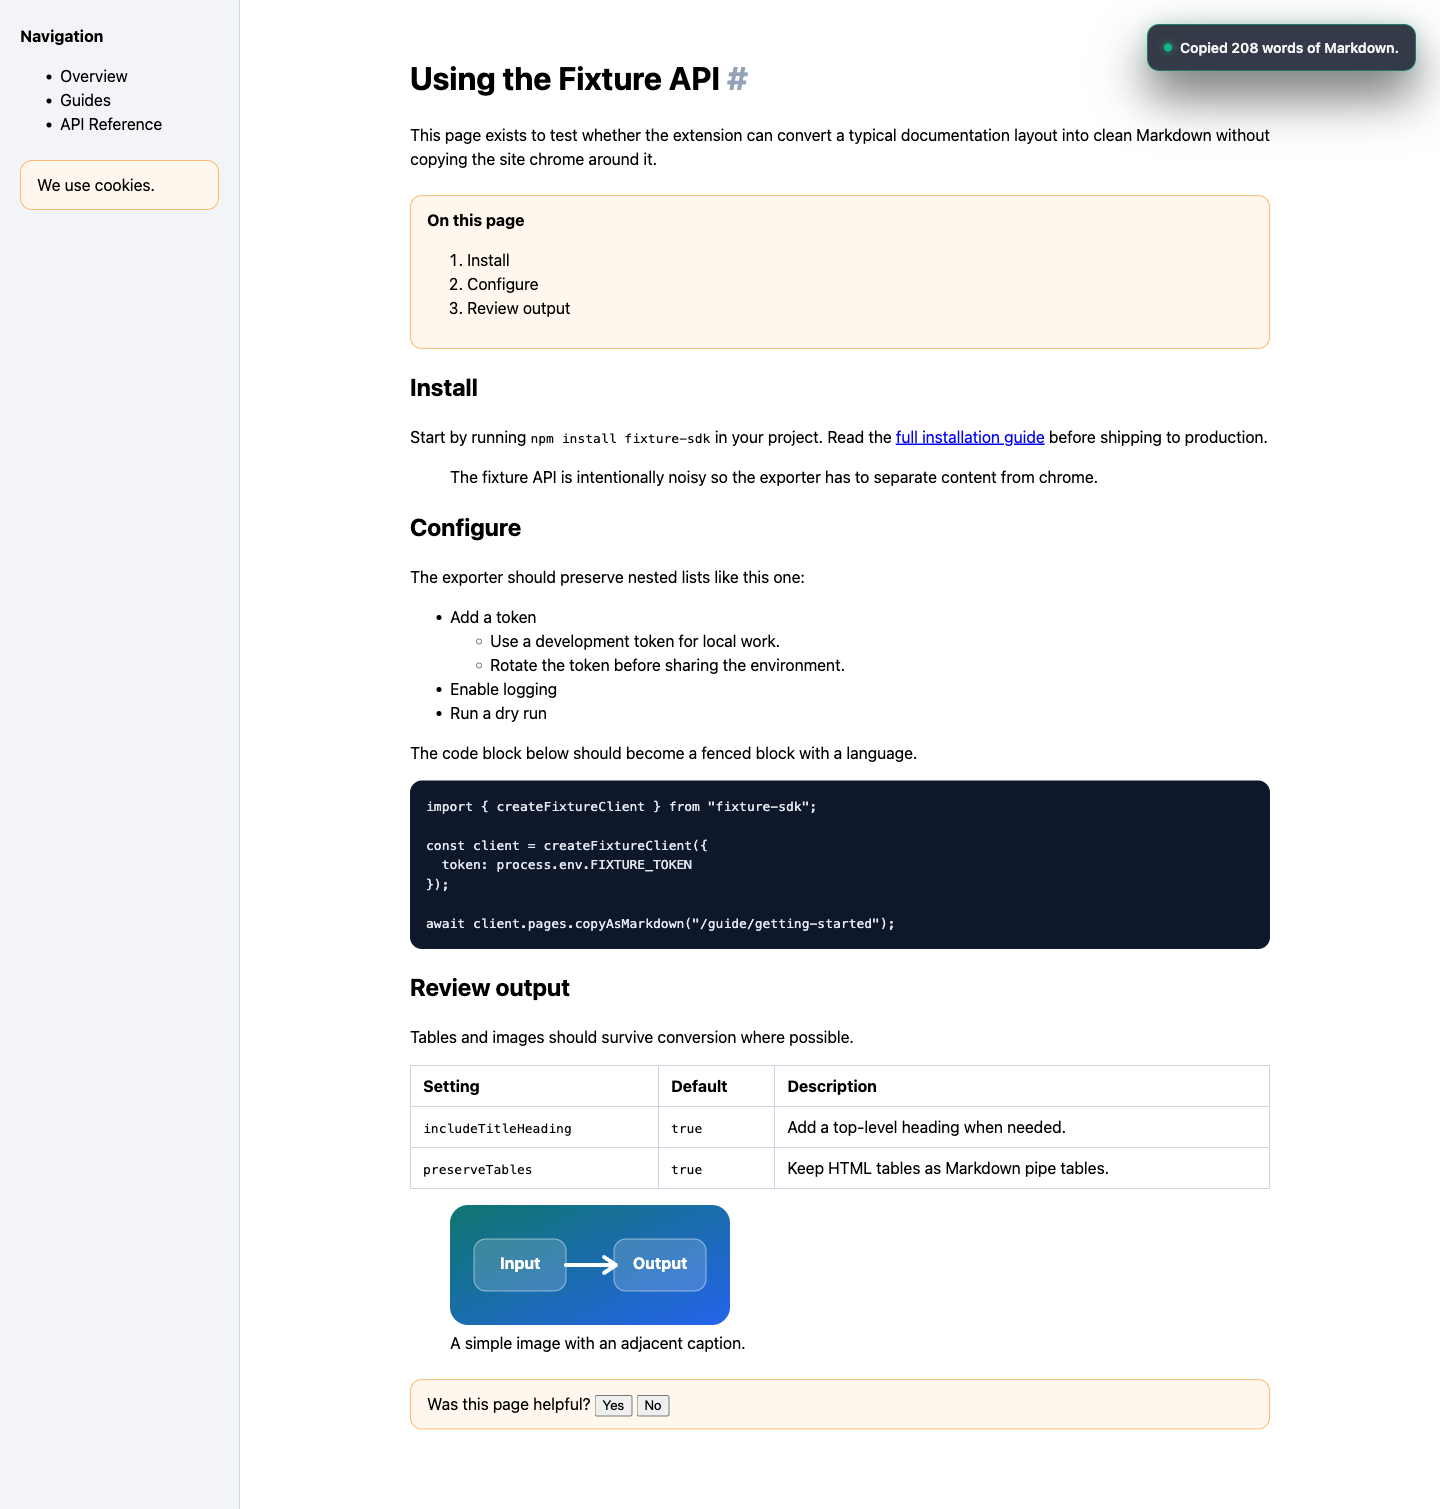
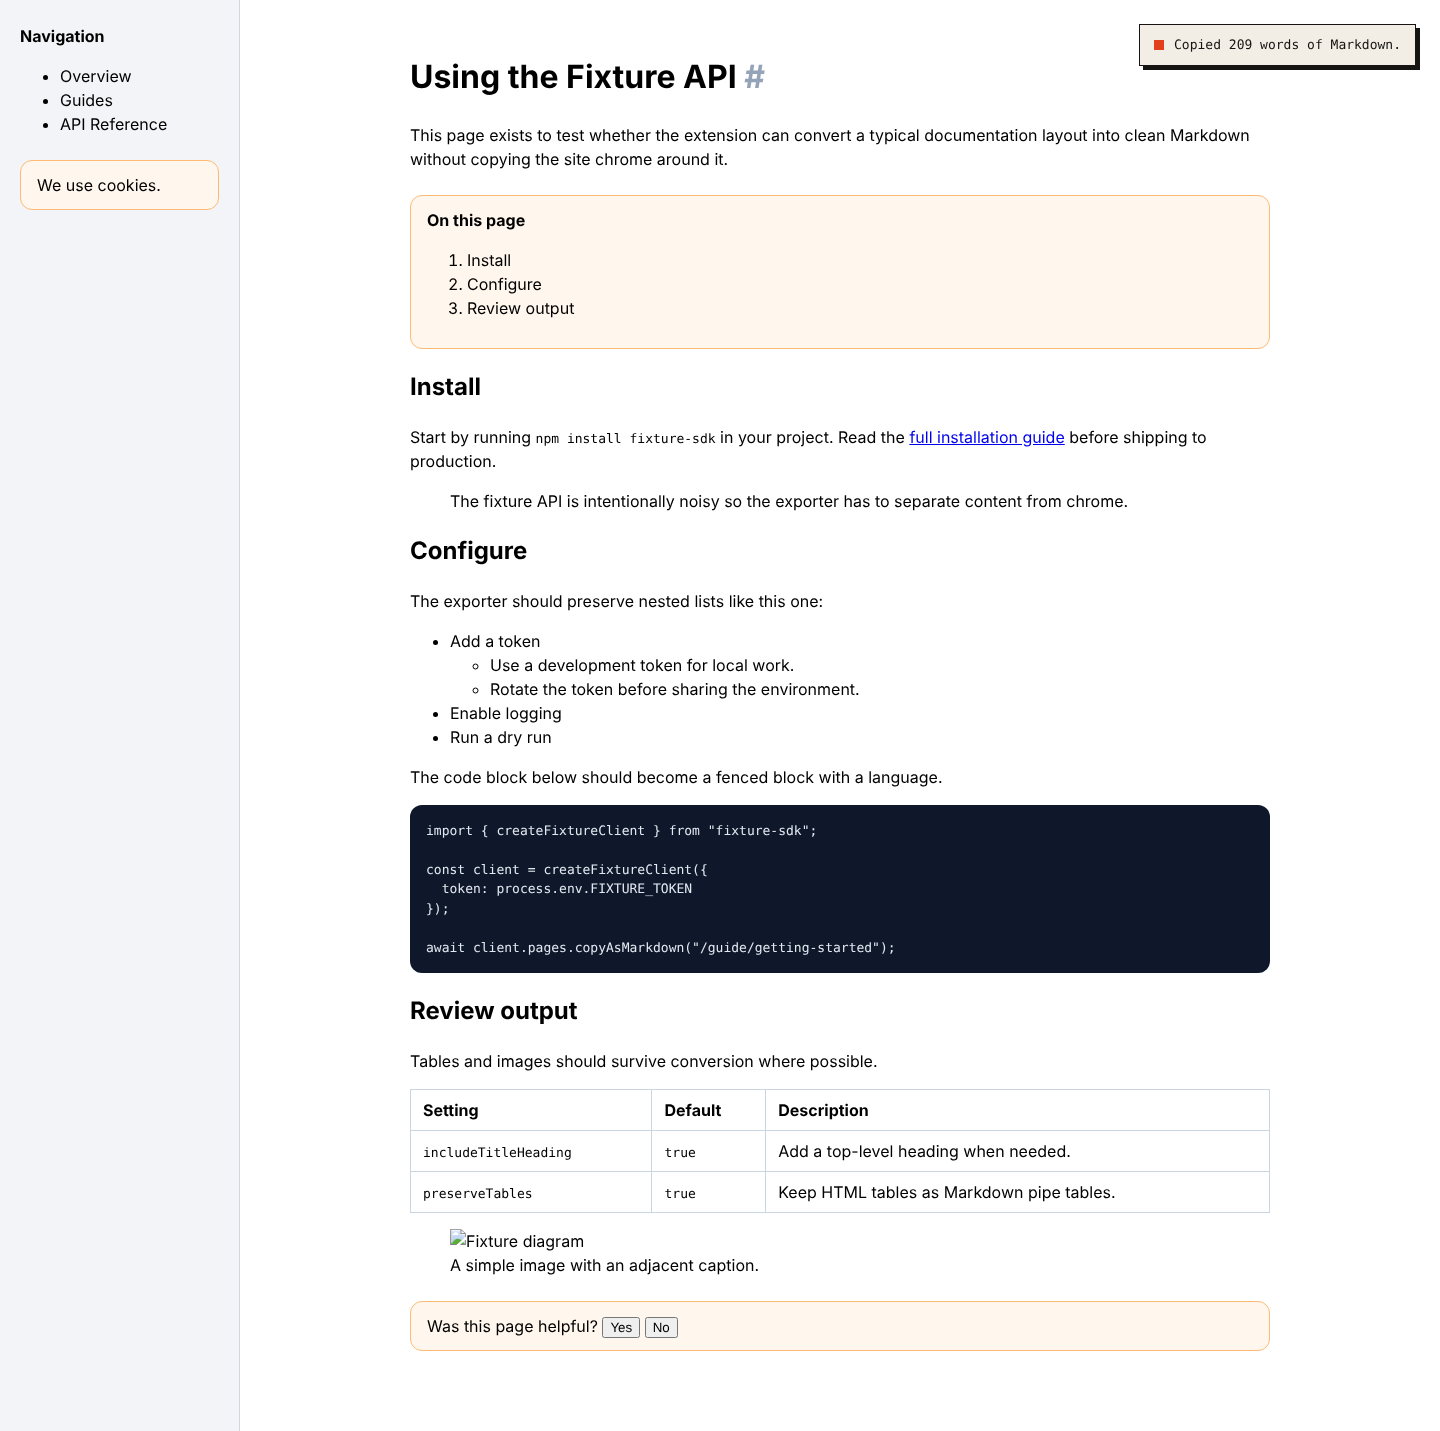
Recapture product screenshots from the restyled extension
scripts/capture-extension-screenshots.mjs loads the real extension in
Chromium against the report-1 fixture (served as docs.example.com) and
writes the popup, settings, and toast captures used by the website and
the store-screenshots studio. Store screenshots in docs/ are re-exported
from the studio.

Claude-Session: https://claude.ai/code/session_01PGBgZjXBjupXcREP6vHBvU

Changed region(s): [[0.2812, 0.0, 1.0, 0.9532], [0.0312, 0.0, 0.125, 0.1537]]

diff --git a/web/app/landing/screenshots-section.tsx b/web/app/landing/screenshots-section.tsx
@@ -7,7 +7,7 @@ const FIGURES = [
     src: "/source/browser/context-menu-toast.png",
     alt: "Readable web page with the WebToMarkdown page menu action and a copy confirmation toast",
     width: 1440,
-    height: 1509,
+    height: 1533,
     caption: "Copying from the page menu. The toast confirms what was copied.",
     className: "md:col-span-6",
     frameClassName: "aspect-[4/3]",
@@ -17,7 +17,7 @@ const FIGURES = [
     src: "/source/popup/popup-success.png",
     alt: "WebToMarkdown popup showing copied Markdown ready to paste",
     width: 420,
-    height: 900,
+    height: 618,
     caption: "The popup, after a copy. A preview shows exactly what you got.",
     className: "md:col-span-3",
     frameClassName: "aspect-[4/3] md:aspect-auto md:h-full",
